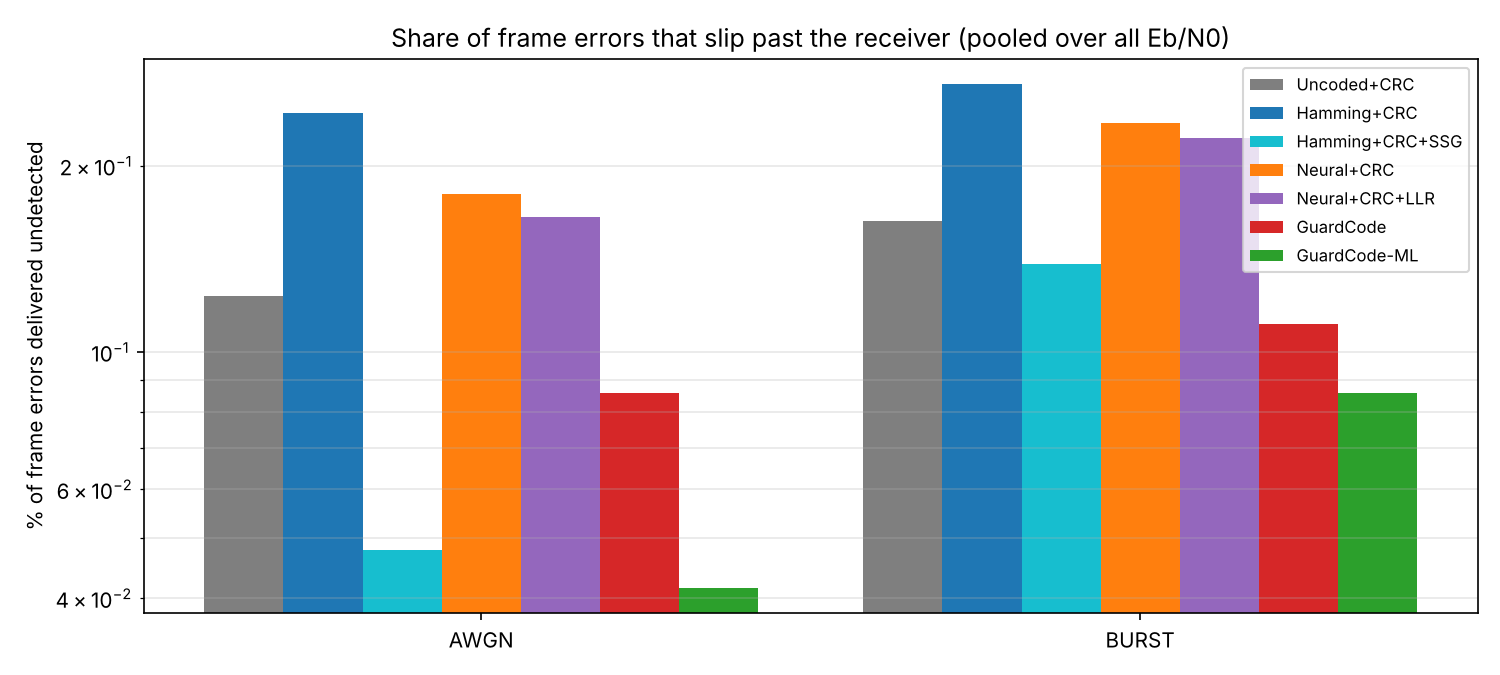
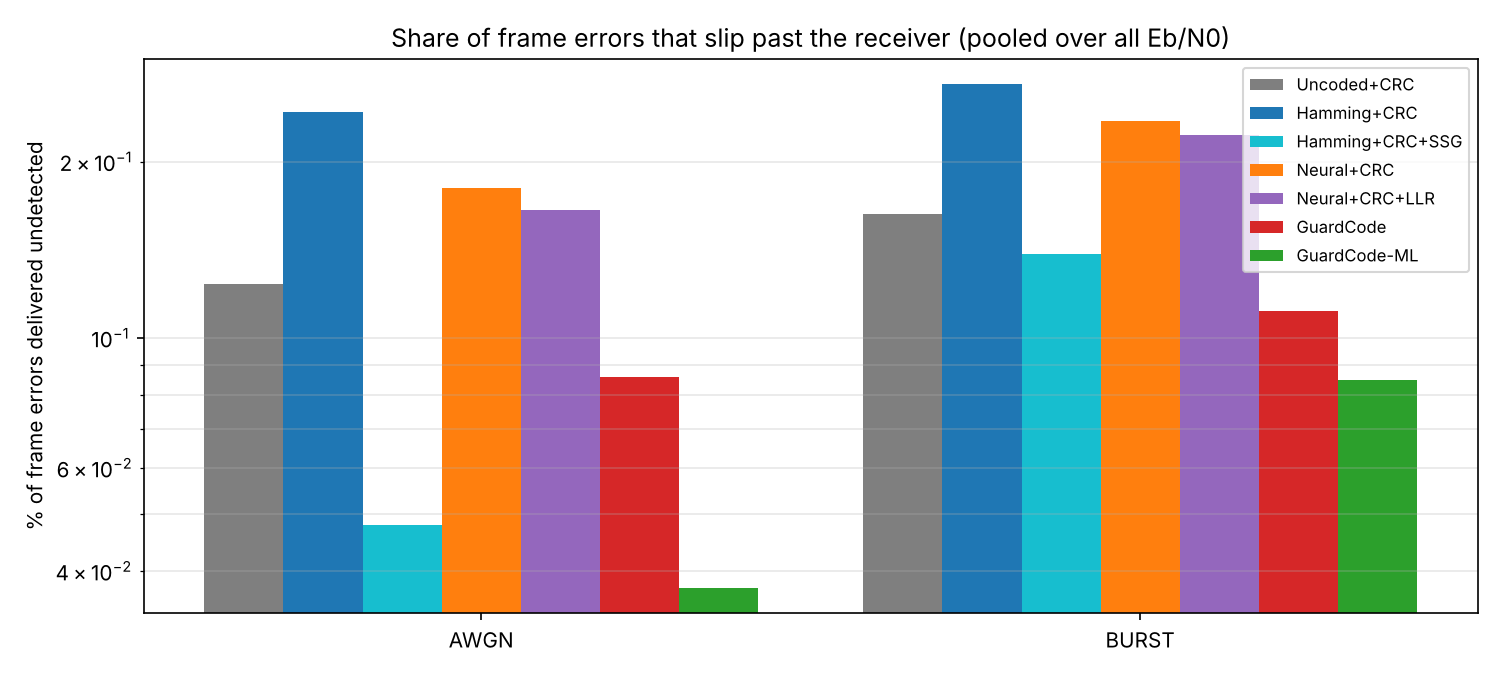
Benchmark retrained GuardCode-ML (324 / 1,165 undetected); update README
Claude-Session: https://claude.ai/code/session_01Jz5mTV9VNp6ybzdPShsnCo

diff --git a/README.md b/README.md
@@ -85,11 +85,11 @@ These numbers come from `results/benchmark.csv`: 300,000 frames per point, Eb/N0
 | AWGN | Neural + CRC | 1,559 |
 | AWGN | Neural + classic min-\|LLR\| test | 1,428 |
 | AWGN | **GuardCode (Neural + SSG)** | **742** (48% fewer than the LLR test) |
-| AWGN | **GuardCode-ML** (Neural + learned gradient-boosted gate) | **360** (51% fewer than GuardCode) |
+| AWGN | **GuardCode-ML** (Neural + learned gradient-boosted gate) | **324** (56% fewer than GuardCode) |
 | AWGN | Hamming + CRC → + SSG | 2,472 → 486 (80% fewer) |
 | Burst | Neural + classic min-\|LLR\| test | 3,054 |
 | Burst | **GuardCode** | **1,531** (50% fewer) |
-| Burst | **GuardCode-ML** | **1,183** (23% fewer than GuardCode) |
+| Burst | **GuardCode-ML** | **1,165** (24% fewer than GuardCode) |
 | Burst | Hamming + CRC → + SSG | 4,161 → 2,135 (49% fewer) |
 
 From 3 dB upward, ARQ goodput stays within about 1% of the unguarded receiver.
